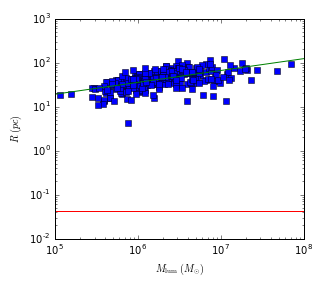
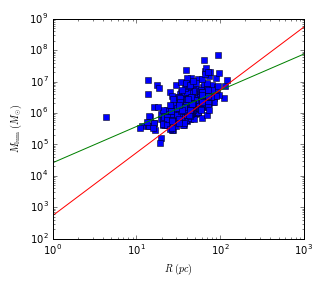
m83 classic GMC plots

diff --git a/m83plots.py b/m83plots.py
@@ -38,13 +38,13 @@ plt.ylabel(r'${\sigma}\  (km\ s^{-1})$')
 plt.tight_layout()
 plt.savefig('Rlinewidth_matplotlib.png')
 
-p,d=np.polyfit(np.log(mytable['MASS_EXTRAP'][idx]),np.log(mytable['RADRMS_EXTRAP_DECONV'][idx]),1)
+p,d=np.polyfit(np.log(mytable['RADRMS_EXTRAP_DECONV'][idx]),np.log(mytable['MASS_EXTRAP'][idx]),1)
 figure=plt.figure(figsize=(4.5,4)) #figure size in inches
-plt.loglog(mytable['MASS_EXTRAP'],mytable['RADRMS_EXTRAP_DECONV'],marker='s',linestyle='None')
-test_mr=np.logspace(5,8,100)
+plt.loglog(mytable['RADRMS_EXTRAP_DECONV'],mytable['MASS_EXTRAP'],marker='s',linestyle='None')
+test_mr=np.logspace(0,3,100)
 plt.plot(test_mr,np.exp(p*np.log(test_mr)+d)) #fit line for m83
-plt.plot(test_mr, ((1/np.sqrt(540))*test_mr**(1/2))) #fit line from Solomon et al. - using effective radius
-plt.xlabel(r'$M_{\mathrm{lum}}\ (M_{\odot})$')
-plt.ylabel(r'$R\ (pc)$')
+plt.plot(test_mr, (540*test_mr**(2))) #fit line from Solomon et al. - using effective radius
+plt.ylabel(r'$M_{\mathrm{lum}}\ (M_{\odot})$')
+plt.xlabel(r'$R\ (pc)$')
 plt.tight_layout()
-plt.savefig('MlumR_matplotlib.png')
+plt.savefig('MassRadius_matplotlib.png')
